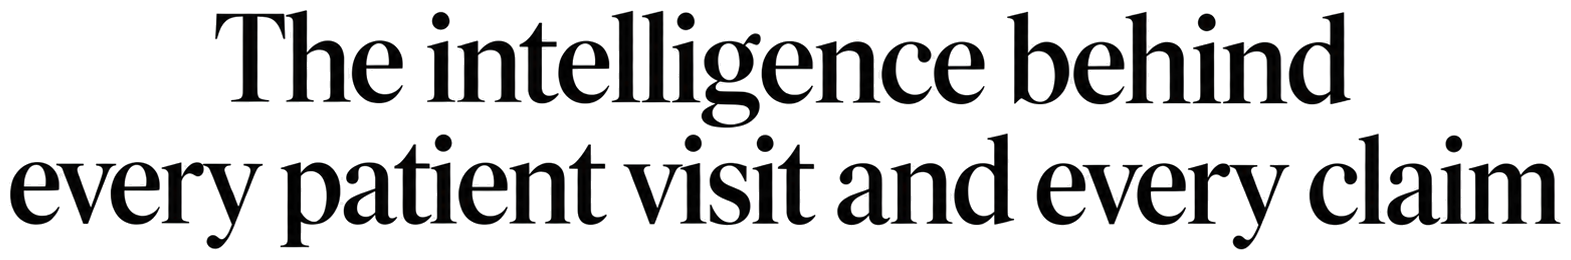
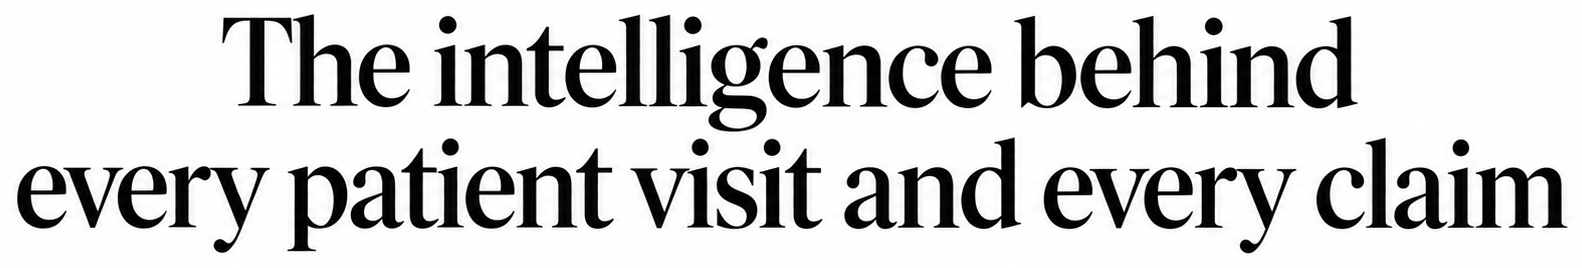
Sharpen hero headline image
Rebuild the transparent PNG from the original source using smooth
luminance-based alpha instead of a hard white-pixel cutoff, which was
producing jagged/blurry edges. Also cap the display width so it isn't
upscaled past native resolution on high-DPI screens.

diff --git a/templates/landing.html b/templates/landing.html
@@ -118,7 +118,7 @@
     }
     .hero-badge svg { flex-shrink: 0; }
     .hero-headline { display: flex; justify-content: center; }
-    .hero-headline img { width: 100%; max-width: 900px; height: auto; display: block; }
+    .hero-headline img { width: 100%; max-width: 790px; height: auto; display: block; image-rendering: -webkit-optimize-contrast; }
     .hero-sub {
       font-family: 'Inter', sans-serif; font-weight: 400; color: rgba(20,21,26,0.55);
       font-size: 17px; line-height: 1.6; margin: 22px auto 0; max-width: 560px;
